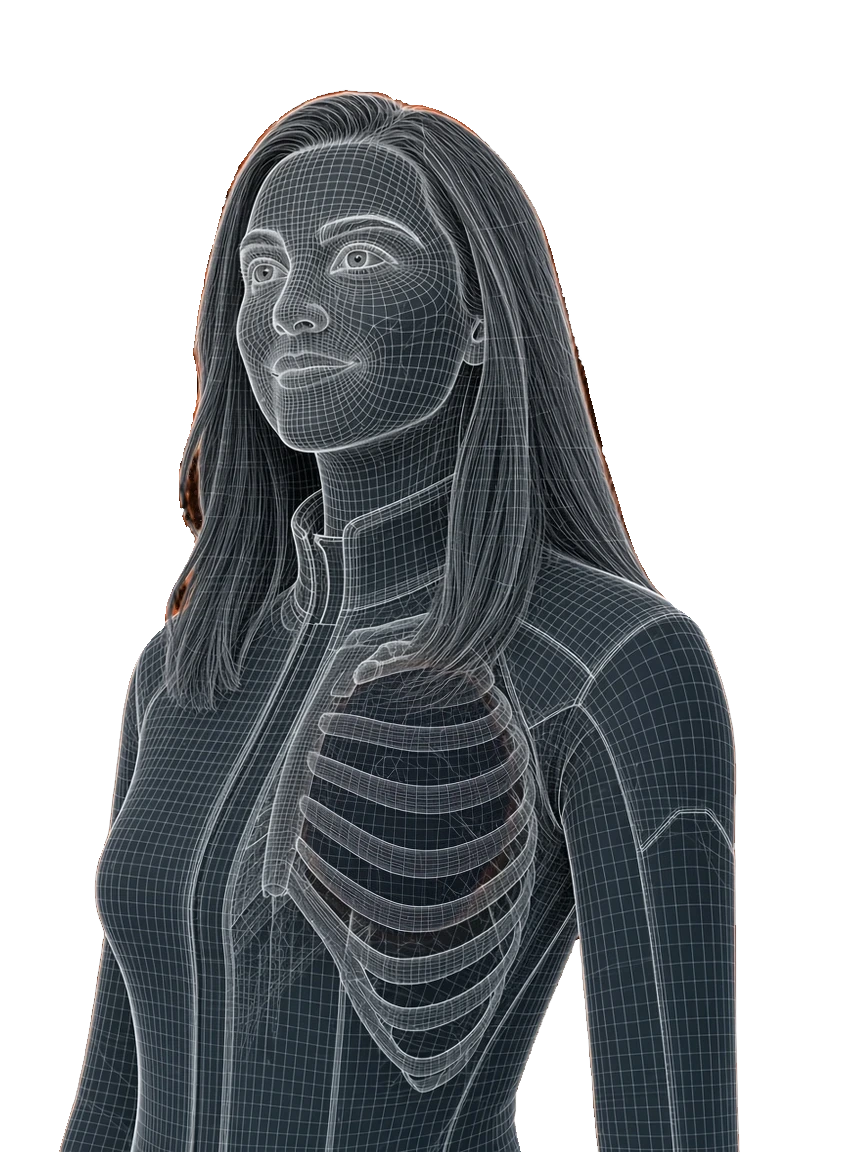
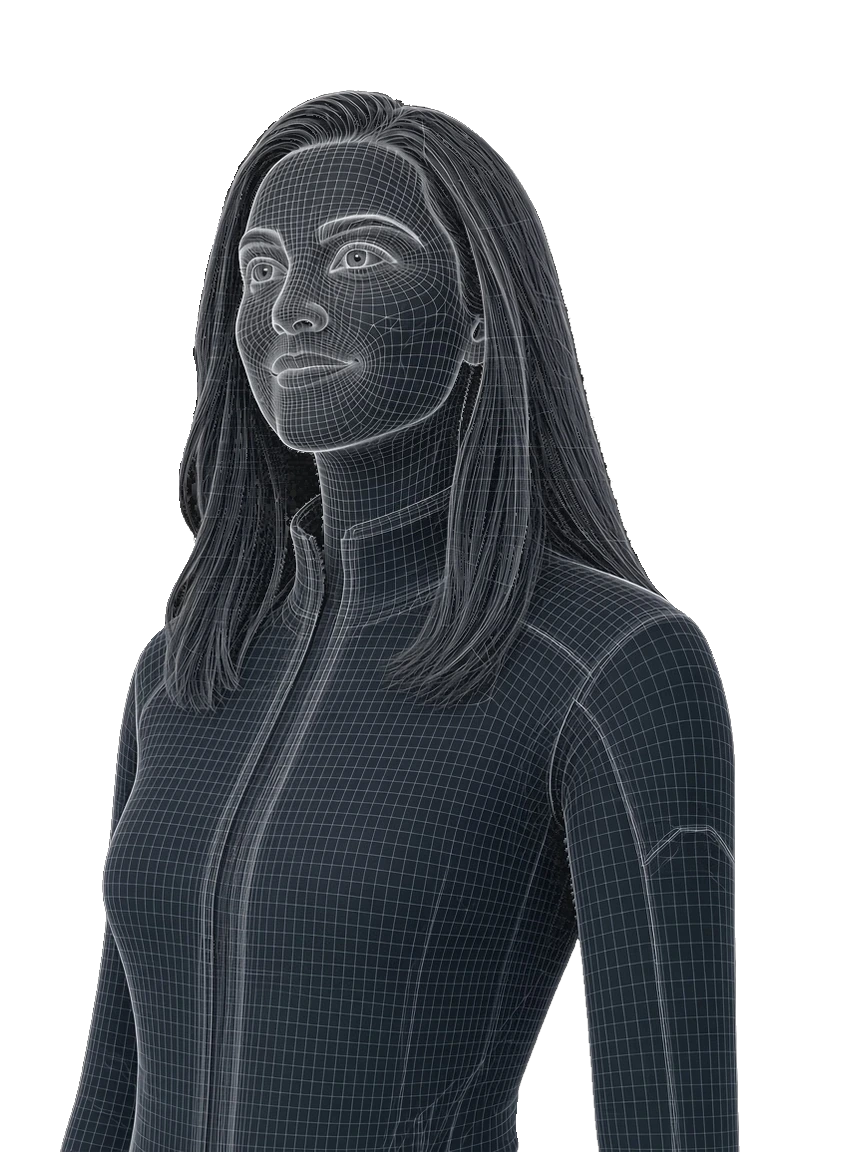
Replace the scan ribcage with the same mesh lines as the rest of the figure.
The chest is no longer a skeleton cutaway; the jacket wireframe continues across the torso.

Changed region(s): [[0.0625, 0.0625, 0.875, 1.0], [0.8125, 0.5625, 0.8438, 0.625], [0.8438, 0.8125, 0.875, 0.8438]]

diff --git a/src/components/HeroAvatar.tsx b/src/components/HeroAvatar.tsx
@@ -1,8 +1,8 @@
 import { useCallback, useEffect, useRef, useState } from 'react'
 import '../HeroAvatar.css'
 
-const bronze = `${import.meta.env.BASE_URL}avatar/lyubov-bronze-bust.webp?v=no-heart`
-const steel = `${import.meta.env.BASE_URL}avatar/lyubov-steel-xray.webp?v=no-heart`
+const bronze = `${import.meta.env.BASE_URL}avatar/lyubov-bronze-bust.webp?v=mesh-chest`
+const steel = `${import.meta.env.BASE_URL}avatar/lyubov-steel-xray.webp?v=mesh-chest`
 
 type HitMap = {
   data: Uint8ClampedArray
